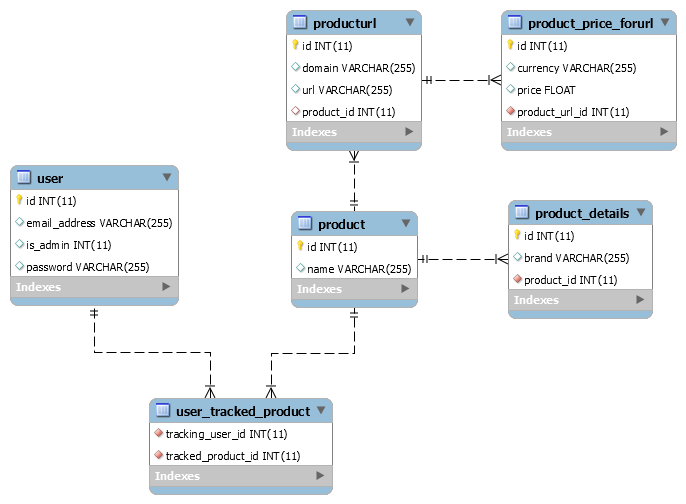
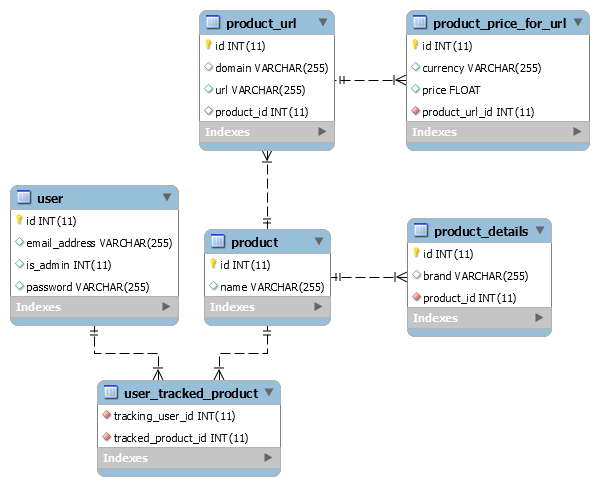
Added DTOs

Changed region(s): [[0.1503, 0.3704, 0.9616, 0.9877], [0.3306, 0.0, 0.9917, 0.3395], [0.0, 0.3086, 0.3005, 0.7099]]

diff --git a/bachelor-project-webservice/src/main/java/utcn/zavaczkipeter/bachelorprojectwebservice/dal/entities/ProductURL.java b/bachelor-project-webservice/src/main/java/utcn/zavaczkipeter/bachelorprojectwebservice/dal/entities/ProductURL.java
@@ -4,7 +4,7 @@ import javax.persistence.*;
 
 @Entity
 @Table
-public class ProductURL {
+public class ProductUrl {
     @Id
     @GeneratedValue(strategy = GenerationType.IDENTITY)
     private int id;
@@ -15,8 +15,8 @@ public class ProductURL {
     @ManyToOne
     @JoinColumn(referencedColumnName = "id")
     private Product product;
-    @OneToOne(mappedBy = "productURL")
-    private ProductPriceForURL productPriceForURL;
+    @OneToOne(mappedBy = "productUrl")
+    private ProductPriceForUrl productPriceForUrl;
 
     public int getId() {
         return id;
@@ -50,11 +50,11 @@ public class ProductURL {
         this.product = product;
     }
 
-    public ProductPriceForURL getProductPriceForURL() {
-        return productPriceForURL;
+    public ProductPriceForUrl getProductPriceForUrl() {
+        return productPriceForUrl;
     }
 
-    public void setProductPriceForURL(ProductPriceForURL productPriceForURL) {
-        this.productPriceForURL = productPriceForURL;
+    public void setProductPriceForUrl(ProductPriceForUrl productPriceForUrl) {
+        this.productPriceForUrl = productPriceForUrl;
     }
 }

diff --git a/bachelor-project-webservice/src/main/java/utcn/zavaczkipeter/bachelorprojectwebservice/bll/dtos/UserDTO.java b/bachelor-project-webservice/src/main/java/utcn/zavaczkipeter/bachelorprojectwebservice/bll/dtos/UserDTO.java
@@ -1,0 +1,51 @@
+package utcn.zavaczkipeter.bachelorprojectwebservice.bll.dtos;
+
+import java.util.List;
+
+public class UserDTO {
+    private int id;
+    private String emailAddress;
+    private String password;
+    private int isAdmin;
+    private List<ProductDTO> trackedProduct;
+
+    public int getId() {
+        return id;
+    }
+
+    public void setId(int id) {
+        this.id = id;
+    }
+
+    public String getEmailAddress() {
+        return emailAddress;
+    }
+
+    public void setEmailAddress(String emailAddress) {
+        this.emailAddress = emailAddress;
+    }
+
+    public String getPassword() {
+        return password;
+    }
+
+    public void setPassword(String password) {
+        this.password = password;
+    }
+
+    public int getIsAdmin() {
+        return isAdmin;
+    }
+
+    public void setIsAdmin(int isAdmin) {
+        this.isAdmin = isAdmin;
+    }
+
+    public List<ProductDTO> getTrackedProduct() {
+        return trackedProduct;
+    }
+
+    public void setTrackedProduct(List<ProductDTO> trackedProduct) {
+        this.trackedProduct = trackedProduct;
+    }
+}

diff --git a/bachelor-project-webservice/src/main/java/utcn/zavaczkipeter/bachelorprojectwebservice/bll/dtos/ProductUrlDTO.java b/bachelor-project-webservice/src/main/java/utcn/zavaczkipeter/bachelorprojectwebservice/bll/dtos/ProductUrlDTO.java
@@ -1,0 +1,49 @@
+package utcn.zavaczkipeter.bachelorprojectwebservice.bll.dtos;
+
+public class ProductUrlDTO {
+    private int id;
+    private String url;
+    private String domain;
+    private int productId;
+    private ProductPriceForUrlDTO productPriceForUrl;
+
+    public int getId() {
+        return id;
+    }
+
+    public void setId(int id) {
+        this.id = id;
+    }
+
+    public String getUrl() {
+        return url;
+    }
+
+    public void setUrl(String url) {
+        this.url = url;
+    }
+
+    public String getDomain() {
+        return domain;
+    }
+
+    public void setDomain(String domain) {
+        this.domain = domain;
+    }
+
+    public int getProductId() {
+        return productId;
+    }
+
+    public void setProductId(int productId) {
+        this.productId = productId;
+    }
+
+    public ProductPriceForUrlDTO getProductPriceForUrl() {
+        return productPriceForUrl;
+    }
+
+    public void setProductPriceForUrl(ProductPriceForUrlDTO productPriceForUrl) {
+        this.productPriceForUrl = productPriceForUrl;
+    }
+}

diff --git a/bachelor-project-webservice/src/main/java/utcn/zavaczkipeter/bachelorprojectwebservice/dal/entities/ProductPriceForURL.java b/bachelor-project-webservice/src/main/java/utcn/zavaczkipeter/bachelorprojectwebservice/dal/entities/ProductPriceForURL.java
@@ -4,7 +4,7 @@ import javax.persistence.*;
 
 @Entity
 @Table
-public class ProductPriceForURL {
+public class ProductPriceForUrl {
     @Id
     @GeneratedValue(strategy = GenerationType.IDENTITY)
     private int id;
@@ -14,7 +14,7 @@ public class ProductPriceForURL {
     private String currency;
     @OneToOne(optional = false)
     @JoinColumn(name = "product_url_id")
-    private ProductURL productURL;
+    private ProductUrl productUrl;
 
     public int getId() {
         return id;
@@ -40,11 +40,11 @@ public class ProductPriceForURL {
         this.currency = currency;
     }
 
-    public ProductURL getProductURL() {
-        return productURL;
+    public ProductUrl getProductUrl() {
+        return productUrl;
     }
 
-    public void setProductURL(ProductURL productURL) {
-        this.productURL = productURL;
+    public void setProductUrl(ProductUrl productUrl) {
+        this.productUrl = productUrl;
     }
 }

diff --git a/bachelor-project-webservice/src/main/java/utcn/zavaczkipeter/bachelorprojectwebservice/bll/dtos/ProductDTO.java b/bachelor-project-webservice/src/main/java/utcn/zavaczkipeter/bachelorprojectwebservice/bll/dtos/ProductDTO.java
@@ -1,0 +1,42 @@
+package utcn.zavaczkipeter.bachelorprojectwebservice.bll.dtos;
+
+import java.util.List;
+
+public class ProductDTO {
+    private int id;
+    private String name;
+    private int productDetailsId;
+    private List<ProductUrlDTO> urls;
+
+    public int getId() {
+        return id;
+    }
+
+    public void setId(int id) {
+        this.id = id;
+    }
+
+    public String getName() {
+        return name;
+    }
+
+    public void setName(String name) {
+        this.name = name;
+    }
+
+    public int getProductDetailsId() {
+        return productDetailsId;
+    }
+
+    public void setProductDetailsId(int productDetailsId) {
+        this.productDetailsId = productDetailsId;
+    }
+
+    public List<ProductUrlDTO> getUrls() {
+        return urls;
+    }
+
+    public void setUrls(List<ProductUrlDTO> urls) {
+        this.urls = urls;
+    }
+}

diff --git a/bachelor-project-webservice/src/main/java/utcn/zavaczkipeter/bachelorprojectwebservice/dal/repositories/ProductURLRepository.java b/bachelor-project-webservice/src/main/java/utcn/zavaczkipeter/bachelorprojectwebservice/dal/repositories/ProductURLRepository.java
@@ -4,11 +4,11 @@ import org.springframework.data.jpa.repository.JpaRepository;
 import org.springframework.stereotype.Service;
 import org.springframework.web.bind.annotation.CrossOrigin;
 import utcn.zavaczkipeter.bachelorprojectwebservice.dal.entities.Product;
-import utcn.zavaczkipeter.bachelorprojectwebservice.dal.entities.ProductURL;
+import utcn.zavaczkipeter.bachelorprojectwebservice.dal.entities.ProductUrl;
 
 @Service
 @CrossOrigin(origins = "http://localhost:4200")
-public interface ProductURLRepository extends JpaRepository<ProductURL, Integer> {
-    ProductURL findByProduct(Product product);
-    ProductURL findByDomain(String domain);
+public interface ProductURLRepository extends JpaRepository<ProductUrl, Integer> {
+    ProductUrl findByProduct(Product product);
+    ProductUrl findByDomain(String domain);
 }

diff --git a/bachelor-project-webservice/src/main/java/utcn/zavaczkipeter/bachelorprojectwebservice/bll/dtos/ProductPriceForUrlDTO.java b/bachelor-project-webservice/src/main/java/utcn/zavaczkipeter/bachelorprojectwebservice/bll/dtos/ProductPriceForUrlDTO.java
@@ -1,0 +1,40 @@
+package utcn.zavaczkipeter.bachelorprojectwebservice.bll.dtos;
+
+public class ProductPriceForUrlDTO {
+    private int id;
+    private float price;
+    private String currency;
+    private int productUrlId;
+
+    public int getId() {
+        return id;
+    }
+
+    public void setId(int id) {
+        this.id = id;
+    }
+
+    public float getPrice() {
+        return price;
+    }
+
+    public void setPrice(float price) {
+        this.price = price;
+    }
+
+    public String getCurrency() {
+        return currency;
+    }
+
+    public void setCurrency(String currency) {
+        this.currency = currency;
+    }
+
+    public int getProductUrlId() {
+        return productUrlId;
+    }
+
+    public void setProductUrlId(int productUrlId) {
+        this.productUrlId = productUrlId;
+    }
+}

diff --git a/bachelor-project-webservice/src/main/java/utcn/zavaczkipeter/bachelorprojectwebservice/dal/repositories/ProductPriceForURLRepository.java b/bachelor-project-webservice/src/main/java/utcn/zavaczkipeter/bachelorprojectwebservice/dal/repositories/ProductPriceForURLRepository.java
@@ -3,9 +3,9 @@ package utcn.zavaczkipeter.bachelorprojectwebservice.dal.repositories;
 import org.springframework.data.jpa.repository.JpaRepository;
 import org.springframework.stereotype.Service;
 import org.springframework.web.bind.annotation.CrossOrigin;
-import utcn.zavaczkipeter.bachelorprojectwebservice.dal.entities.ProductPriceForURL;
+import utcn.zavaczkipeter.bachelorprojectwebservice.dal.entities.ProductPriceForUrl;
 
 @Service
 @CrossOrigin(origins = "http://localhost:4200")
-public interface ProductPriceForURLRepository extends JpaRepository<ProductPriceForURL, Integer> {
+public interface ProductPriceForURLRepository extends JpaRepository<ProductPriceForUrl, Integer> {
 }

diff --git a/bachelor-project-webservice/src/main/java/utcn/zavaczkipeter/bachelorprojectwebservice/dal/entities/Product.java b/bachelor-project-webservice/src/main/java/utcn/zavaczkipeter/bachelorprojectwebservice/dal/entities/Product.java
@@ -14,7 +14,7 @@ public class Product {
     @OneToOne(mappedBy = "product")
     private ProductDetails productDetails;
     @OneToMany(mappedBy = "product")
-    private List<ProductURL> urls;
+    private List<ProductUrl> urls;
     @ManyToMany(mappedBy = "trackedProduct")
     private List<User> trackingUser;
 
@@ -42,11 +42,11 @@ public class Product {
         this.productDetails = productDetails;
     }
 
-    public List<ProductURL> getUrls() {
+    public List<ProductUrl> getUrls() {
         return urls;
     }
 
-    public void setUrls(List<ProductURL> urls) {
+    public void setUrls(List<ProductUrl> urls) {
         this.urls = urls;
     }
 

diff --git a/bachelor-project-webservice/src/main/java/utcn/zavaczkipeter/bachelorprojectwebservice/bll/dtos/ProductDetailsDTO.java b/bachelor-project-webservice/src/main/java/utcn/zavaczkipeter/bachelorprojectwebservice/bll/dtos/ProductDetailsDTO.java
@@ -1,0 +1,31 @@
+package utcn.zavaczkipeter.bachelorprojectwebservice.bll.dtos;
+
+public class ProductDetailsDTO {
+    private int id;
+    private ProductDTO product;
+    private String brand;
+
+    public int getId() {
+        return id;
+    }
+
+    public void setId(int id) {
+        this.id = id;
+    }
+
+    public ProductDTO getProduct() {
+        return product;
+    }
+
+    public void setProduct(ProductDTO product) {
+        this.product = product;
+    }
+
+    public String getBrand() {
+        return brand;
+    }
+
+    public void setBrand(String brand) {
+        this.brand = brand;
+    }
+}

diff --git a/bachelor-project-webservice/src/main/java/utcn/zavaczkipeter/bachelorprojectwebservice/bll/wrappers/IdWrapper.java b/bachelor-project-webservice/src/main/java/utcn/zavaczkipeter/bachelorprojectwebservice/bll/wrappers/IdWrapper.java
@@ -1,0 +1,13 @@
+package utcn.zavaczkipeter.bachelorprojectwebservice.bll.wrappers;
+
+public class IdWrapper {
+    private int id;
+
+    public int getId() {
+        return id;
+    }
+
+    public void setId(int id) {
+        this.id = id;
+    }
+}
